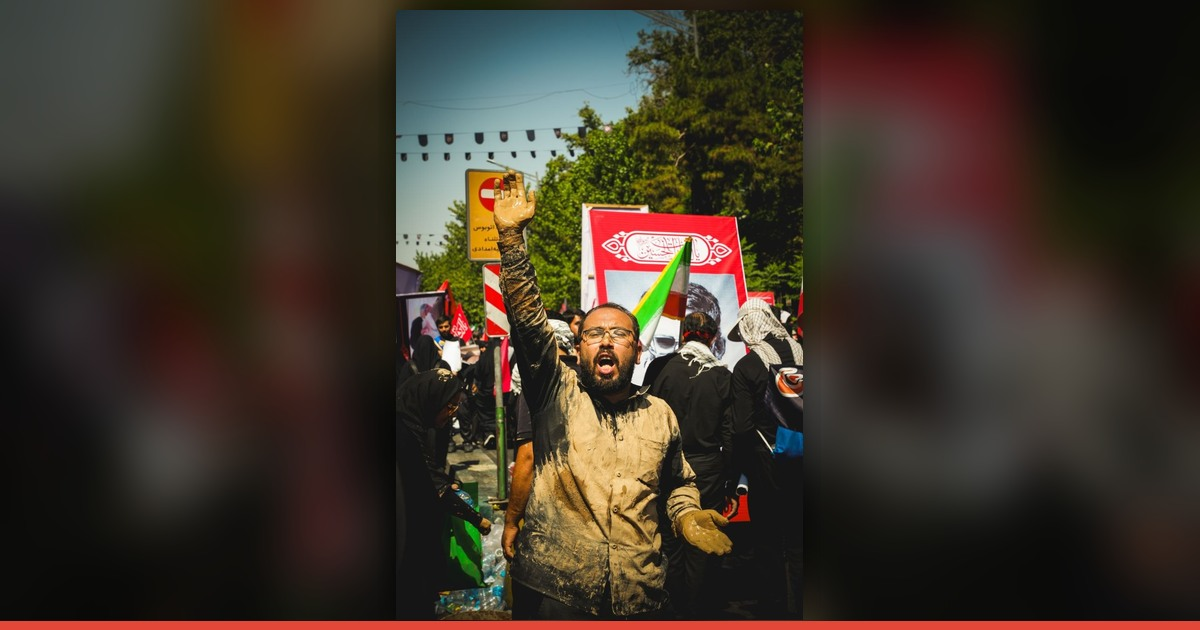
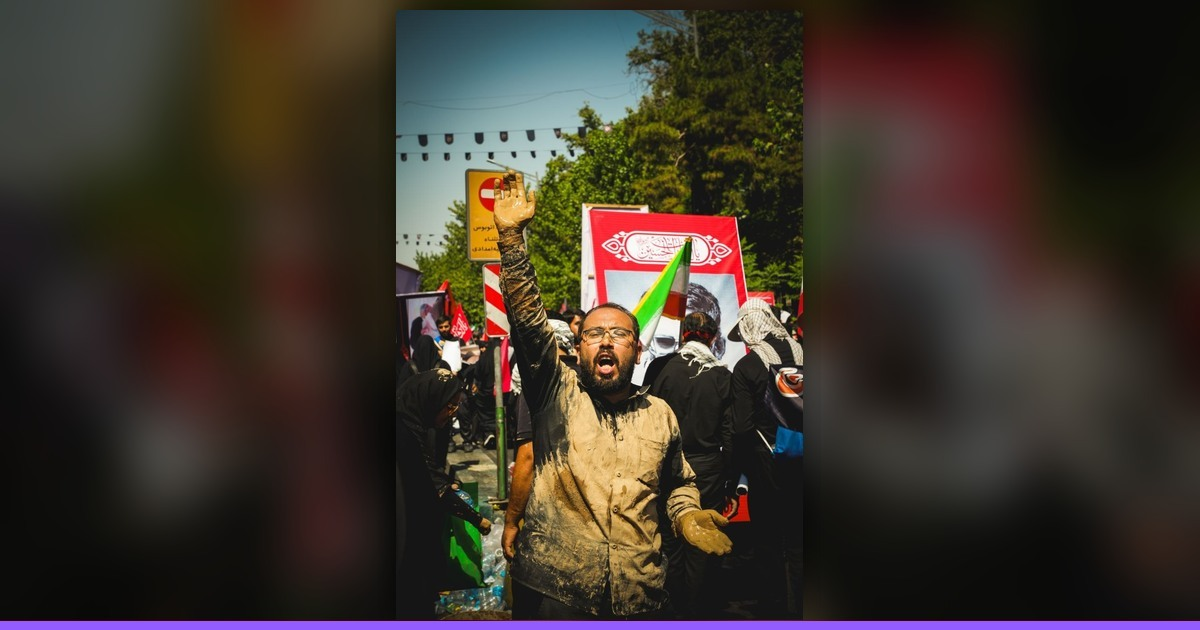
Redesign gallery with a premium neon corporate identity

Changed region(s): [[0.0, 0.9651, 1.0, 1.0]]

diff --git a/style.css b/style.css
@@ -1,57 +1,47 @@
-:root{--bg:#0a0a0b;--surface:#121214;--ink:#f0ece4;--muted:#a6a29b;--red:#e24737;--line:#29282a;--serif:Georgia,"Times New Roman",serif;--sans:Tahoma,Arial,sans-serif;--nav:rgba(10,10,11,.78)}
-*{box-sizing:border-box}html{scroll-behavior:smooth}body{margin:0;background:var(--bg);color:var(--ink);font-family:var(--sans);overflow-x:hidden}body.light{--bg:#eeeae2;--surface:#ded9cf;--ink:#111113;--muted:#605e59;--line:#c6c0b6;--nav:rgba(238,234,226,.82)}
-::selection{background:var(--red);color:#fff}.skip{position:fixed;top:-100px;right:1rem;background:#fff;color:#000;padding:.8rem;z-index:100}.skip:focus{top:1rem}.progress{position:fixed;inset:0 0 auto;width:0;height:2px;background:var(--red);z-index:1000}.nav{position:fixed;z-index:50;top:0;right:0;left:0;height:82px;display:flex;align-items:center;justify-content:space-between;padding:0 clamp(20px,5vw,76px);transition:.35s}.nav.scrolled{background:var(--nav);backdrop-filter:blur(15px);border-bottom:1px solid var(--line);height:66px}.brand{display:flex;align-items:center;gap:.65rem;color:#fff;text-decoration:none;font-weight:700;font-size:1.05rem}.light .nav.scrolled .brand,.light .nav.scrolled nav a,.light .nav.scrolled .soundless{color:#111}.brand-mark{display:grid;place-items:center;width:34px;height:34px;border:1px solid rgba(255,255,255,.45);border-radius:50%;font-family:var(--serif);font-size:1.2rem}.nav nav{display:flex;gap:1.8rem;align-items:center}.nav nav a{color:#fff;text-decoration:none;font-size:.82rem}.soundless{border:0;background:transparent;color:#fff;font-size:1.2rem;cursor:pointer}.hero{height:100svh;min-height:680px;position:relative;display:flex;align-items:flex-end;overflow:hidden}.hero-img{position:absolute;inset:0;width:100%;height:100%;object-fit:cover;filter:saturate(.85) contrast(1.08);animation:heroIn 1.8s ease both}.hero-shade{position:absolute;inset:0;background:linear-gradient(90deg,rgba(0,0,0,.12),rgba(0,0,0,.72)),linear-gradient(0deg,rgba(0,0,0,.8),transparent 55%)}.hero-copy{position:relative;z-index:2;margin:0 clamp(24px,9vw,150px) clamp(70px,10vh,120px);color:#fff}.eyebrow,.kicker{font-size:.72rem;letter-spacing:.18em;font-weight:700;color:var(--red)}.eyebrow{display:flex;align-items:center;gap:12px;color:#fff}.eyebrow span{width:46px;height:2px;background:var(--red)}.hero h1{font-size:clamp(5rem,14vw,12rem);line-height:.75;margin:.2em 0 .18em;letter-spacing:-.08em}.hero-line{font-family:var(--serif);font-size:clamp(1.5rem,3vw,3.2rem);line-height:1.35;margin:0}.hero-line em{color:#ef715f}.hero-actions{display:flex;align-items:center;gap:2rem;margin-top:2rem}.primary{background:var(--red);color:#fff;text-decoration:none;padding:1rem 1.3rem;border-radius:2px;font-weight:700;font-size:.86rem;display:flex;gap:2rem;transition:.2s}.primary:hover{transform:translateY(-3px);background:#f15443}.counter{font-size:.75rem;color:#d4d1cb}.counter b{font-family:var(--serif);font-size:1.4rem;color:#fff;margin-left:.4rem}.hero-index{position:absolute;z-index:2;left:5vw;top:48%;transform:rotate(-90deg);transform-origin:left;color:#fff;font-size:.65rem;letter-spacing:.25em}.scroll{position:absolute;z-index:2;bottom:28px;left:5vw;color:#fff;text-decoration:none;font-size:.65rem;letter-spacing:.1em;display:flex;align-items:center;gap:8px}.scroll i{display:block;width:1px;height:34px;background:#fff;animation:pulse 1.5s infinite}.statement{padding:clamp(100px,15vw,210px) clamp(24px,13vw,210px);display:grid;grid-template-columns:140px 1fr;gap:1rem}.statement blockquote{font-family:var(--serif);font-size:clamp(2rem,5vw,5.2rem);line-height:1.45;margin:0;max-width:1100px}.statement>p:last-child{grid-column:2;max-width:620px;color:var(--muted);line-height:2;margin-top:2rem}.gallery-section{padding:0 clamp(14px,4vw,60px) clamp(110px,14vw,190px)}.section-head{display:flex;justify-content:space-between;align-items:end;border-bottom:1px solid var(--line);padding-bottom:2rem;margin-bottom:1.4rem}.section-head h2,.about h2,.featured h2{font-family:var(--serif);font-size:clamp(4rem,9vw,9rem);line-height:.8;margin:.15em 0 0}.section-head>p{color:var(--muted);max-width:310px;font-size:.8rem;line-height:1.9}.filters{display:flex;gap:.5rem;overflow:auto;padding:.3rem 0 1.8rem;scrollbar-width:none}.filter{white-space:nowrap;background:transparent;color:var(--muted);border:1px solid var(--line);border-radius:99px;padding:.65rem 1rem;cursor:pointer}.filter.active,.filter:hover{background:var(--ink);color:var(--bg);border-color:var(--ink)}.gallery{columns:3 300px;column-gap:12px}.card{position:relative;margin:0 0 12px;break-inside:avoid;overflow:hidden;background:var(--surface);cursor:zoom-in;animation:cardIn .7s both}.card img{display:block;width:100%;height:auto;transition:transform .75s cubic-bezier(.2,.7,.2,1),filter .4s;filter:saturate(.82)}.card:hover img{transform:scale(1.035);filter:saturate(1)}.card-info{position:absolute;right:0;left:0;bottom:0;padding:4rem 1.2rem 1.1rem;color:#fff;background:linear-gradient(transparent,rgba(0,0,0,.82));transform:translateY(15px);opacity:0;transition:.35s}.card:hover .card-info,.card:focus-visible .card-info{transform:none;opacity:1}.card-info span{display:block;font-size:.95rem;font-weight:700}.card-info small{color:#ddd;font-size:.65rem}.load-wrap{text-align:center;margin-top:3rem}.load{background:transparent;border:1px solid var(--line);color:var(--ink);padding:1rem 1.3rem;cursor:pointer}.load:hover{border-color:var(--red);color:var(--red)}.featured{margin:0 clamp(14px,4vw,60px) clamp(120px,15vw,220px);min-height:85vh;display:grid;grid-template-columns:1.4fr .75fr;background:var(--surface)}.featured-photo{min-height:620px;overflow:hidden}.featured-photo img{width:100%;height:100%;object-fit:cover}.featured-copy{padding:clamp(35px,6vw,90px);position:relative;display:flex;flex-direction:column;justify-content:center}.big-no{position:absolute;left:12%;top:8%;font-family:var(--serif);font-size:8rem;color:transparent;-webkit-text-stroke:1px var(--line)}.featured h2{position:relative}.featured-copy>p:not(.kicker){color:var(--muted);line-height:2;margin-top:2.5rem}.featured-copy a{color:var(--ink);text-decoration:none;border-bottom:1px solid var(--red);align-self:start;padding-bottom:.4rem;margin-top:2rem}.about{border-top:1px solid var(--line);display:grid;grid-template-columns:1fr 1fr;padding:clamp(100px,15vw,190px) clamp(24px,9vw,150px);gap:8vw}.about h2 em{color:var(--red);font-weight:normal}.about-text{padding-top:4rem}.about-text p{font-size:clamp(1rem,1.5vw,1.3rem);line-height:2.1;color:var(--muted)}.signature{font-family:var(--serif);font-style:italic;font-size:2.3rem;margin-top:4rem}.signature small{display:block;font-family:var(--sans);font-style:normal;letter-spacing:.2em;font-size:.55rem;color:var(--muted)}footer{border-top:1px solid var(--line);min-height:260px;padding:60px clamp(24px,6vw,90px);display:flex;align-items:center;justify-content:space-between}.footer-brand{font-size:2.6rem;font-weight:900}.footer-brand span{display:block;font-size:.65rem;color:var(--muted);letter-spacing:.12em}.footer-meta{font-size:.72rem;color:var(--muted);line-height:1.8;text-align:center}.footer-meta strong{color:var(--ink)}.creator-channel{display:inline-block;margin-top:.15rem;color:var(--muted);text-decoration:none;border-bottom:1px solid var(--line);padding-bottom:.2rem;transition:.25s}.creator-channel:hover{color:var(--red);border-color:var(--red)}.to-top{display:grid;place-items:center;border:1px solid var(--line);width:50px;height:50px;color:var(--ink);text-decoration:none;border-radius:50%}.lightbox{position:fixed;inset:0;width:100%;height:100%;max-width:none;max-height:none;border:0;padding:0;background:rgba(4,4,5,.96);color:#fff}.lightbox::backdrop{background:#000}.lightbox[open]{display:grid;grid-template-columns:80px 1fr 80px;align-items:center}.lightbox figure{margin:0;display:flex;height:94vh;align-items:center;justify-content:center;flex-direction:column}.lightbox img{max-height:85vh;max-width:min(85vw,1400px);object-fit:contain}.lightbox figcaption{width:min(85vw,1100px);display:flex;justify-content:space-between;padding-top:1rem}.lightbox figcaption small{color:#999}.close,.arrow{position:relative;background:none;border:0;color:#fff;cursor:pointer}.close{position:absolute;z-index:3;top:20px;left:24px;font-size:2rem}.arrow{font-size:2rem;height:100%}.reveal{opacity:0;transform:translateY(35px);transition:.9s cubic-bezier(.2,.8,.2,1)}.reveal.visible{opacity:1;transform:none}.noscript{padding:1rem;background:var(--red);color:#fff;text-align:center}
-@keyframes heroIn{from{transform:scale(1.08);filter:saturate(.2) brightness(.4)}to{transform:scale(1);filter:saturate(.85) contrast(1.08)}}@keyframes pulse{50%{opacity:.2;transform:scaleY(.7)}}@keyframes cardIn{from{opacity:0;transform:translateY(20px)}}
-/* Responsive system: large Windows displays, laptops, tablets and phones */
-@media(min-width:1700px){
-  .nav{padding-inline:max(76px,calc((100vw - 1700px)/2))}
-  .hero-copy{margin-right:max(150px,calc((100vw - 1600px)/2));margin-left:max(150px,calc((100vw - 1600px)/2))}
-  .gallery-section,.featured{max-width:1800px;margin-inline:auto}
-  .gallery{columns:4 340px;column-gap:16px}.card{margin-bottom:16px}
-  .statement,.about{max-width:1800px;margin-inline:auto}
+:root{
+  --bg:#07050d;--bg-2:#0d0916;--panel:rgba(20,14,34,.72);--panel-solid:#110c1d;
+  --ink:#f7f4ff;--muted:#a9a0b8;--purple:#925cff;--violet:#6d28d9;--pink:#d946ef;
+  --cyan:#62e8ff;--line:rgba(179,137,255,.16);--glow:rgba(146,92,255,.32);
+  --serif:Georgia,"Times New Roman",serif;--sans:Tahoma,"Segoe UI",Arial,sans-serif;
 }
-@media(min-width:1200px) and (max-width:1699px){
-  .gallery{columns:3 320px}
-}
-@media(min-width:801px) and (max-width:1199px){
-  .nav{padding-inline:34px}
-  .hero-copy{margin-right:8vw;margin-bottom:9vh}.hero h1{font-size:clamp(6.5rem,15vw,10rem)}
-  .statement{grid-template-columns:105px 1fr;padding-inline:7vw}
-  .gallery-section{padding-inline:24px}.gallery{columns:2 320px;column-gap:12px}
-  .featured{margin-inline:24px;grid-template-columns:1.1fr .9fr;min-height:680px}
-  .featured-photo{min-height:680px}.featured-copy{padding:45px}.big-no{font-size:6rem}
-  .about{padding-inline:7vw;gap:5vw}.about h2{font-size:clamp(4rem,10vw,7rem)}
-  footer{padding-inline:34px}
-  .lightbox[open]{grid-template-columns:64px 1fr 64px}.lightbox img{max-width:calc(100vw - 150px)}
-}
-@media(max-width:800px){
-  .nav{height:66px;padding-right:max(20px,env(safe-area-inset-right));padding-left:max(20px,env(safe-area-inset-left))}.nav nav a{display:none}
-  .hero{min-height:620px}.hero-img{object-position:54% center}.hero-copy{margin-right:max(24px,env(safe-area-inset-right));margin-left:max(24px,env(safe-area-inset-left));margin-bottom:90px}.hero h1{font-size:clamp(4.7rem,25vw,8rem)}.hero-index{display:none}
-  .statement{grid-template-columns:1fr;padding-top:100px}.statement>p:last-child{grid-column:1}
-  .section-head{align-items:start}.section-head>p{display:none}.gallery{columns:2 150px;column-gap:7px}.card{margin-bottom:7px}.card-info{display:none}
-  .featured{grid-template-columns:1fr}.featured-photo{min-height:65vh}.featured-copy{min-height:520px}
-  .about{grid-template-columns:1fr}.about-text{padding-top:0}
-  footer{position:relative;flex-direction:column;align-items:start;gap:2rem;padding-bottom:max(60px,env(safe-area-inset-bottom))}.footer-meta{text-align:right}.to-top{position:absolute;left:24px}
-  .lightbox[open]{grid-template-columns:45px 1fr 45px}.lightbox figure{height:92dvh}.lightbox img{max-width:100%;max-height:78dvh}.lightbox figcaption{width:100%;padding:1rem;flex-direction:column;gap:.3rem}
-  .hero-actions{gap:1rem}.counter{display:none}
-}
-@media(max-width:520px){
-  .brand{font-size:.92rem}.brand-mark{width:30px;height:30px}.soundless{padding:.5rem}
-  .hero{min-height:560px}.hero-copy{margin-bottom:78px}.hero-line{font-size:1.35rem}.primary{padding:.9rem 1.05rem;gap:1.2rem}
-  .statement{padding:85px 20px}.statement blockquote{font-size:clamp(1.8rem,9vw,3rem)}
-  .gallery-section{padding-inline:8px}.section-head{padding-inline:12px}.filters{padding-inline:12px}
-  .gallery{columns:1}.card{margin-bottom:8px}.card:nth-child(n+7) img{max-height:78vh;object-fit:cover}
-  .featured{margin-inline:8px}.featured-photo{min-height:58vh}.featured-copy{min-height:440px;padding:36px 24px}.big-no{font-size:5.5rem}
-  .about{padding-inline:24px}.about-title h2{font-size:clamp(3.8rem,20vw,6rem)}
-  .footer-brand{font-size:2.15rem}.to-top{left:20px}
-  .lightbox[open]{grid-template-columns:38px 1fr 38px}.arrow{font-size:1.55rem}.close{top:12px;left:15px}.lightbox figcaption{font-size:.8rem}
-}
-@media(max-height:680px) and (orientation:landscape){
-  .hero{min-height:560px}.hero-copy{margin-bottom:48px}.hero h1{font-size:clamp(4.5rem,18vh,8rem)}.hero-line{font-size:1.45rem}.hero-actions{margin-top:1rem}.scroll{display:none}
-  .lightbox figure{height:100dvh}.lightbox img{max-height:84dvh}.lightbox figcaption{padding-top:.45rem}
-}
-@media(hover:none),(pointer:coarse){
-  .card-info{display:block;opacity:1;transform:none;padding:3.5rem .9rem .8rem}.card:hover img{transform:none}
-  .filter,.load,.primary,.to-top{min-height:44px}.arrow{min-width:44px}
-}
+*{box-sizing:border-box}html{scroll-behavior:smooth;background:var(--bg)}body{margin:0;background:var(--bg);color:var(--ink);font-family:var(--sans);overflow-x:hidden;min-width:280px}body::before{content:"";position:fixed;inset:0;z-index:-3;background:radial-gradient(circle at 82% 12%,rgba(109,40,217,.2),transparent 28%),radial-gradient(circle at 8% 72%,rgba(217,70,239,.1),transparent 25%),linear-gradient(180deg,#08050f 0%,#050409 100%)}body::after{content:"";position:fixed;inset:0;z-index:-2;pointer-events:none;opacity:.21;background-image:linear-gradient(rgba(150,100,255,.11) 1px,transparent 1px),linear-gradient(90deg,rgba(150,100,255,.11) 1px,transparent 1px);background-size:64px 64px;mask-image:linear-gradient(to bottom,black,transparent 82%)}::selection{background:var(--purple);color:white}img{max-width:100%}button,a{-webkit-tap-highlight-color:transparent}.skip{position:fixed;top:-100px;right:1rem;background:var(--purple);color:white;padding:.8rem 1rem;z-index:1000;border-radius:10px}.skip:focus{top:1rem}.progress{position:fixed;inset:0 0 auto;width:0;height:2px;background:linear-gradient(90deg,var(--cyan),var(--purple),var(--pink));box-shadow:0 0 18px var(--purple);z-index:1000}
+
+/* Navigation */
+.nav{position:fixed;z-index:50;top:18px;right:clamp(18px,4vw,64px);left:clamp(18px,4vw,64px);height:62px;display:flex;align-items:center;justify-content:space-between;padding:0 18px 0 10px;border:1px solid transparent;border-radius:18px;transition:.35s}.nav.scrolled{top:10px;background:rgba(10,7,17,.78);border-color:var(--line);box-shadow:0 16px 60px rgba(0,0,0,.36),inset 0 1px rgba(255,255,255,.04);backdrop-filter:blur(20px)}.brand{display:flex;align-items:center;gap:.75rem;color:#fff;text-decoration:none;font-weight:800;font-size:1rem}.brand-mark{display:grid;place-items:center;width:39px;height:39px;border:1px solid rgba(188,146,255,.48);background:linear-gradient(145deg,rgba(146,92,255,.25),rgba(217,70,239,.06));box-shadow:inset 0 0 18px rgba(146,92,255,.22),0 0 22px rgba(146,92,255,.12);border-radius:12px;font-family:var(--serif);font-size:1.25rem}.nav nav{display:flex;gap:1.7rem;align-items:center}.nav nav>a{color:#d8d0e3;text-decoration:none;font-size:.77rem;transition:.2s}.nav nav>a:hover{color:white;text-shadow:0 0 16px var(--purple)}.nav-status{direction:ltr;display:flex;align-items:center;gap:8px;border-right:1px solid var(--line);padding-right:1.4rem;color:#82788f;font:600 .58rem/1 "Segoe UI",Arial,sans-serif;letter-spacing:.14em}.nav-status i{width:6px;height:6px;background:#6cffb5;border-radius:50%;box-shadow:0 0 10px #6cffb5;animation:statusPulse 2s infinite}
+
+/* Hero */
+.hero{height:100svh;min-height:700px;position:relative;display:flex;align-items:flex-end;overflow:hidden;isolation:isolate;background:#08060e}.hero::before{content:"";position:absolute;z-index:2;width:min(52vw,820px);height:min(52vw,820px);right:-14vw;top:-17vw;border:1px solid rgba(166,110,255,.17);border-radius:50%;box-shadow:0 0 100px rgba(109,40,217,.12),inset 0 0 100px rgba(109,40,217,.08)}.hero::after{content:"";position:absolute;z-index:3;inset:0;pointer-events:none;background:linear-gradient(90deg,transparent 49.8%,rgba(182,139,255,.1) 50%,transparent 50.2%);opacity:.55}.hero-img{position:absolute;inset:0;width:100%;height:100%;object-fit:cover;object-position:center 48%;filter:saturate(.5) contrast(1.14) brightness(.63) hue-rotate(5deg);animation:heroIn 1.5s cubic-bezier(.2,.8,.2,1) both}.hero-shade{position:absolute;z-index:1;inset:0;background:linear-gradient(90deg,rgba(4,3,8,.18),rgba(6,4,11,.32) 40%,rgba(7,5,13,.88) 78%),linear-gradient(0deg,#07050d 0%,transparent 42%),linear-gradient(180deg,rgba(7,5,13,.55),transparent 25%)}.hero-copy{position:relative;z-index:5;margin:0 clamp(28px,8.5vw,150px) clamp(72px,10vh,120px);color:#fff;max-width:900px}.eyebrow,.kicker{font-size:.67rem;letter-spacing:.2em;font-weight:800;color:#b794ff;text-transform:uppercase}.eyebrow{display:flex;align-items:center;gap:12px;color:#cfc5dd}.eyebrow span{width:52px;height:1px;background:linear-gradient(90deg,var(--purple),var(--pink));box-shadow:0 0 12px var(--purple)}.hero h1{font-size:clamp(5.5rem,14vw,12rem);line-height:.74;margin:.22em 0 .19em;letter-spacing:-.085em;text-shadow:0 0 80px rgba(146,92,255,.26)}.hero-line{font-family:var(--serif);font-size:clamp(1.45rem,2.7vw,3rem);line-height:1.45;margin:0;color:#eae4f2}.hero-line em{font-style:normal;background:linear-gradient(90deg,#b89aff,#e879f9,#7ee9ff);-webkit-background-clip:text;background-clip:text;color:transparent}.hero-actions{display:flex;align-items:center;gap:2rem;margin-top:2.1rem}.primary{position:relative;overflow:hidden;background:linear-gradient(110deg,#6d28d9,#9b5cff 55%,#c026d3);box-shadow:0 12px 38px rgba(109,40,217,.35),inset 0 1px rgba(255,255,255,.25);border:1px solid rgba(255,255,255,.15);color:#fff;text-decoration:none;padding:1rem 1.25rem;border-radius:12px;font-weight:800;font-size:.8rem;display:flex;gap:2.3rem;transition:.25s}.primary::before{content:"";position:absolute;inset:0;transform:translateX(110%);background:linear-gradient(90deg,transparent,rgba(255,255,255,.28),transparent);transition:.55s}.primary:hover{transform:translateY(-3px);box-shadow:0 18px 52px rgba(146,92,255,.46)}.primary:hover::before{transform:translateX(-110%)}.counter{direction:rtl;font-size:.7rem;color:#b3aabc}.counter b{font-family:"Segoe UI",Arial,sans-serif;font-size:1.45rem;color:#fff;margin-left:.45rem;font-weight:300}.hero-index{position:absolute;z-index:5;left:4vw;top:48%;transform:rotate(-90deg);transform-origin:left;color:#9f93ad;font:600 .57rem/1 "Segoe UI",Arial,sans-serif;letter-spacing:.25em}.scroll{position:absolute;z-index:5;bottom:28px;left:4vw;color:#9f93ad;text-decoration:none;font-size:.6rem;letter-spacing:.1em;display:flex;align-items:center;gap:9px}.scroll i{display:block;width:1px;height:34px;background:linear-gradient(var(--purple),transparent);box-shadow:0 0 7px var(--purple);animation:pulse 1.5s infinite}
+
+/* Editorial statement */
+.statement{position:relative;padding:clamp(100px,14vw,200px) clamp(26px,12vw,210px);display:grid;grid-template-columns:140px 1fr;gap:1rem}.statement::before{content:"01 / VISION";position:absolute;left:5vw;top:16%;color:#4f465d;font:600 .56rem/1 "Segoe UI",Arial,sans-serif;letter-spacing:.22em;writing-mode:vertical-rl}.statement blockquote{font-family:var(--serif);font-size:clamp(2rem,4.6vw,5rem);line-height:1.5;margin:0;max-width:1100px;background:linear-gradient(120deg,#fff 10%,#b8acc7 70%,#745e91);-webkit-background-clip:text;background-clip:text;color:transparent}.statement>p:last-child{grid-column:2;max-width:630px;color:var(--muted);line-height:2.1;margin-top:2rem;border-right:1px solid var(--purple);padding-right:1.2rem}
+
+/* Gallery */
+.gallery-section{position:relative;padding:0 clamp(14px,4vw,64px) clamp(110px,14vw,190px)}.section-head{display:flex;justify-content:space-between;align-items:end;border-bottom:1px solid var(--line);padding-bottom:2rem;margin-bottom:1.4rem}.section-head h2,.about h2,.featured h2{font-family:var(--serif);font-size:clamp(4rem,8.5vw,8.5rem);line-height:.82;margin:.15em 0 0;letter-spacing:-.05em}.section-head h2{background:linear-gradient(180deg,#fff 15%,#82758f);-webkit-background-clip:text;background-clip:text;color:transparent}.section-head>p{color:var(--muted);max-width:320px;font-size:.76rem;line-height:2}.filters{display:flex;gap:.55rem;overflow:auto;padding:.4rem 0 1.8rem;scrollbar-width:none}.filter{white-space:nowrap;background:rgba(19,13,31,.6);color:#a89caf;border:1px solid var(--line);border-radius:10px;padding:.7rem 1.05rem;cursor:pointer;font-family:inherit;font-size:.72rem;transition:.24s}.filter.active,.filter:hover{background:rgba(126,67,233,.18);color:#fff;border-color:rgba(168,112,255,.64);box-shadow:inset 0 0 18px rgba(146,92,255,.1),0 0 20px rgba(146,92,255,.08)}.gallery{columns:3 300px;column-gap:13px}.card{position:relative;margin:0 0 13px;break-inside:avoid;overflow:hidden;background:var(--panel-solid);cursor:zoom-in;border:1px solid rgba(185,137,255,.08);border-radius:14px;animation:cardIn .7s both;transform:translateZ(0)}.card::after{content:"";position:absolute;inset:0;border-radius:inherit;box-shadow:inset 0 0 0 1px rgba(255,255,255,0);pointer-events:none;transition:.35s}.card img{display:block;width:100%;height:auto;transition:transform .75s cubic-bezier(.2,.7,.2,1),filter .45s;filter:saturate(.65) contrast(1.05)}.card:hover{border-color:rgba(164,102,255,.42);box-shadow:0 20px 50px rgba(0,0,0,.4),0 0 32px rgba(109,40,217,.12)}.card:hover::after{box-shadow:inset 0 0 0 1px rgba(194,151,255,.18)}.card:hover img{transform:scale(1.035);filter:saturate(.92) contrast(1.04)}.card-info{position:absolute;right:0;left:0;bottom:0;padding:5rem 1.2rem 1.15rem;color:#fff;background:linear-gradient(transparent,rgba(8,5,14,.93));transform:translateY(15px);opacity:0;transition:.35s}.card-info span{display:block;font-size:.9rem;font-weight:800}.card-info small{display:block;color:#ad9fba;font-size:.6rem;margin-top:.35rem;letter-spacing:.04em}.card:hover .card-info,.card:focus-visible .card-info{transform:none;opacity:1}.load-wrap{text-align:center;margin-top:3rem}.load{background:linear-gradient(145deg,rgba(31,20,49,.9),rgba(13,9,22,.9));border:1px solid var(--line);border-radius:12px;color:#ded5ea;padding:1rem 1.3rem;cursor:pointer;font-family:inherit;transition:.25s}.load:hover{border-color:var(--purple);color:#fff;box-shadow:0 0 30px rgba(146,92,255,.16)}
+
+/* Featured panel */
+.featured{position:relative;margin:0 clamp(14px,4vw,64px) clamp(120px,15vw,220px);min-height:82vh;display:grid;grid-template-columns:1.38fr .72fr;background:linear-gradient(145deg,rgba(22,14,37,.9),rgba(9,6,15,.92));border:1px solid var(--line);border-radius:24px;overflow:hidden;box-shadow:0 40px 120px rgba(0,0,0,.35)}.featured::after{content:"";position:absolute;left:-10%;bottom:-35%;width:55%;height:65%;background:var(--purple);filter:blur(140px);opacity:.13;pointer-events:none}.featured-photo{min-height:620px;overflow:hidden;position:relative}.featured-photo::after{content:"";position:absolute;inset:0;background:linear-gradient(90deg,transparent 60%,rgba(12,8,20,.65)),linear-gradient(0deg,rgba(8,5,13,.45),transparent 45%)}.featured-photo img{width:100%;height:100%;object-fit:cover;filter:saturate(.64) contrast(1.1)}.featured-copy{padding:clamp(35px,6vw,90px);position:relative;z-index:2;display:flex;flex-direction:column;justify-content:center}.big-no{position:absolute;left:10%;top:7%;font-family:"Segoe UI",Arial,sans-serif;font-size:7rem;font-weight:200;color:rgba(145,96,219,.08);-webkit-text-stroke:1px rgba(163,113,239,.14)}.featured h2{position:relative;font-size:clamp(4rem,7vw,7.5rem);text-shadow:0 0 55px rgba(146,92,255,.17)}.featured-copy>p:not(.kicker){color:var(--muted);line-height:2;margin-top:2.5rem}.featured-copy>a{color:#eee7f6;text-decoration:none;border-bottom:1px solid var(--purple);align-self:start;padding-bottom:.45rem;margin-top:2rem;font-size:.78rem;transition:.25s}.featured-copy>a:hover{color:#c8a8ff;text-shadow:0 0 15px var(--purple)}
+
+/* About */
+.about{position:relative;border-top:1px solid var(--line);display:grid;grid-template-columns:1fr 1fr;padding:clamp(100px,14vw,185px) clamp(24px,9vw,150px);gap:8vw}.about::before{content:"";position:absolute;right:7%;top:13%;width:90px;height:90px;border:1px solid rgba(156,99,255,.2);border-radius:22px;transform:rotate(45deg);box-shadow:inset 0 0 35px rgba(146,92,255,.08),0 0 40px rgba(146,92,255,.05)}.about h2 em{font-style:normal;color:transparent;-webkit-text-stroke:1px #9c6cef;text-shadow:0 0 32px rgba(146,92,255,.22)}.about-text{padding-top:4rem}.about-text p{font-size:clamp(1rem,1.45vw,1.25rem);line-height:2.15;color:var(--muted)}.signature{font-family:var(--serif);font-style:italic;font-size:2.3rem;margin-top:4rem;color:#e9def5}.signature small{display:block;font-family:"Segoe UI",Arial,sans-serif;font-style:normal;letter-spacing:.22em;font-size:.5rem;color:#756a81;margin-top:.5rem}
+
+/* Footer */
+footer{position:relative;border-top:1px solid var(--line);min-height:270px;padding:60px clamp(24px,6vw,90px);display:flex;align-items:center;justify-content:space-between;background:linear-gradient(180deg,rgba(15,9,25,.1),rgba(18,11,30,.8));overflow:hidden}footer::before{content:"";position:absolute;width:420px;height:160px;left:35%;bottom:-130px;background:var(--purple);filter:blur(100px);opacity:.16}.footer-brand{font-size:2.55rem;font-weight:900;letter-spacing:-.05em}.footer-brand span{display:block;font:600 .56rem/1.8 "Segoe UI",Arial,sans-serif;color:#766c82;letter-spacing:.17em}.footer-meta{position:relative;font-size:.68rem;color:#8f849a;line-height:1.85;text-align:center}.footer-meta strong{color:#e9dfff}.creator-channel{display:inline-block;margin-top:.15rem;color:#a795ba;text-decoration:none;border-bottom:1px solid rgba(159,108,238,.35);padding-bottom:.2rem;transition:.25s}.creator-channel:hover{color:#c49eff;border-color:#a76bff;text-shadow:0 0 14px rgba(146,92,255,.6)}.to-top{position:relative;display:grid;place-items:center;border:1px solid var(--line);width:52px;height:52px;color:#c7b9d4;text-decoration:none;border-radius:14px;background:rgba(28,18,45,.6);transition:.25s}.to-top:hover{border-color:var(--purple);color:white;box-shadow:0 0 26px rgba(146,92,255,.2);transform:translateY(-3px)}
+
+/* Lightbox */
+.lightbox{position:fixed;inset:0;width:100%;height:100%;max-width:none;max-height:none;border:0;padding:0;background:rgba(5,3,9,.97);color:#fff}.lightbox::backdrop{background:#030205}.lightbox[open]{display:grid;grid-template-columns:80px 1fr 80px;align-items:center}.lightbox figure{margin:0;display:flex;height:94vh;align-items:center;justify-content:center;flex-direction:column}.lightbox img{max-height:84vh;max-width:min(85vw,1400px);object-fit:contain;border-radius:10px;box-shadow:0 30px 100px #000,0 0 0 1px rgba(190,145,255,.13),0 0 70px rgba(109,40,217,.1)}.lightbox figcaption{width:min(85vw,1100px);display:flex;justify-content:space-between;padding-top:1rem;color:#eee7f5}.lightbox figcaption small{color:#85798e}.close,.arrow{position:relative;background:none;border:0;color:#c8b9d7;cursor:pointer;transition:.22s}.close:hover,.arrow:hover{color:white;text-shadow:0 0 18px var(--purple)}.close{position:absolute;z-index:3;top:20px;left:24px;font-size:2rem}.arrow{font-size:2rem;height:100%}.reveal{opacity:0;transform:translateY(35px);transition:.9s cubic-bezier(.2,.8,.2,1)}.reveal.visible{opacity:1;transform:none}.noscript{padding:1rem;background:var(--purple);color:#fff;text-align:center}
+
+@keyframes heroIn{from{transform:scale(1.07);filter:saturate(.1) brightness(.28)}to{transform:scale(1);filter:saturate(.5) contrast(1.14) brightness(.63) hue-rotate(5deg)}}@keyframes pulse{50%{opacity:.25;transform:scaleY(.7)}}@keyframes cardIn{from{opacity:0;transform:translateY(20px)}}@keyframes statusPulse{50%{opacity:.35;box-shadow:0 0 3px #6cffb5}}
+
+/* Large Windows / 4K */
+@media(min-width:1700px){.nav{right:max(64px,calc((100vw - 1760px)/2));left:max(64px,calc((100vw - 1760px)/2))}.hero-copy{margin-right:max(150px,calc((100vw - 1600px)/2))}.gallery-section,.featured{max-width:1800px;margin-inline:auto}.gallery{columns:4 340px;column-gap:16px}.card{margin-bottom:16px}.statement,.about{max-width:1800px;margin-inline:auto}}
+@media(min-width:1200px) and (max-width:1699px){.gallery{columns:3 320px}}
+
+/* Tablets and compact laptops */
+@media(min-width:801px) and (max-width:1199px){.nav{right:24px;left:24px}.hero-copy{margin-right:7vw;margin-bottom:9vh}.hero h1{font-size:clamp(6.5rem,15vw,10rem)}.statement{grid-template-columns:105px 1fr;padding-inline:7vw}.gallery-section{padding-inline:24px}.gallery{columns:2 320px}.featured{margin-inline:24px;grid-template-columns:1.08fr .92fr;min-height:680px}.featured-photo{min-height:680px}.featured-copy{padding:42px}.big-no{font-size:5.5rem}.about{padding-inline:7vw;gap:5vw}.about h2{font-size:clamp(4rem,10vw,7rem)}footer{padding-inline:34px}.lightbox[open]{grid-template-columns:64px 1fr 64px}.lightbox img{max-width:calc(100vw - 150px)}}
+
+/* Phones and small tablets */
+@media(max-width:800px){body::after{background-size:42px 42px}.nav{top:10px;right:max(12px,env(safe-area-inset-right));left:max(12px,env(safe-area-inset-left));height:58px;padding:0 12px}.nav.scrolled{top:6px}.nav nav>a{display:none}.nav-status{border:0;padding:0;font-size:.5rem}.hero{min-height:650px}.hero::before{width:90vw;height:90vw;right:-35vw;top:-20vw}.hero::after{display:none}.hero-img{object-position:48% center}.hero-shade{background:linear-gradient(0deg,#07050d 0%,rgba(7,5,13,.18) 57%,rgba(7,5,13,.6)),linear-gradient(90deg,rgba(5,3,9,.1),rgba(7,5,13,.68))}.hero-copy{margin-right:max(24px,env(safe-area-inset-right));margin-left:max(24px,env(safe-area-inset-left));margin-bottom:90px}.hero h1{font-size:clamp(4.7rem,24vw,8rem)}.hero-index{display:none}.statement{grid-template-columns:1fr;padding:100px 24px}.statement::before{display:none}.statement>p:last-child{grid-column:1}.section-head{align-items:start}.section-head>p{display:none}.gallery{columns:2 150px;column-gap:8px}.card{margin-bottom:8px;border-radius:10px}.card-info{display:none}.featured{grid-template-columns:1fr;border-radius:18px}.featured-photo{min-height:65vh}.featured-photo::after{background:linear-gradient(0deg,rgba(10,6,17,.7),transparent 40%)}.featured-copy{min-height:500px}.about{grid-template-columns:1fr}.about-text{padding-top:0}footer{position:relative;flex-direction:column;align-items:start;gap:2rem;padding-bottom:max(60px,env(safe-area-inset-bottom))}.footer-meta{text-align:right}.to-top{position:absolute;left:24px}.lightbox[open]{grid-template-columns:45px 1fr 45px}.lightbox figure{height:92dvh}.lightbox img{max-width:100%;max-height:78dvh;border-radius:6px}.lightbox figcaption{width:100%;padding:1rem;flex-direction:column;gap:.3rem}.hero-actions{gap:1rem}.counter{display:none}}
+@media(max-width:520px){.brand{font-size:.88rem}.brand-mark{width:34px;height:34px;border-radius:10px}.nav-status{font-size:.43rem;letter-spacing:.1em}.hero{min-height:590px}.hero-copy{margin-bottom:76px}.hero-line{font-size:1.32rem}.primary{padding:.92rem 1.05rem;gap:1.2rem}.statement{padding:85px 20px}.statement blockquote{font-size:clamp(1.8rem,9vw,3rem)}.gallery-section{padding-inline:8px}.section-head{padding-inline:12px}.filters{padding-inline:12px}.gallery{columns:1}.card{margin-bottom:9px;border-radius:12px}.card-info{display:block;opacity:1;transform:none;padding:4.5rem 1rem .9rem}.featured{margin-inline:8px}.featured-photo{min-height:58vh}.featured-copy{min-height:430px;padding:36px 24px}.big-no{font-size:5rem}.about{padding-inline:24px}.about-title h2{font-size:clamp(3.8rem,20vw,6rem)}.footer-brand{font-size:2.15rem}.to-top{left:20px}.lightbox[open]{grid-template-columns:38px 1fr 38px}.arrow{font-size:1.55rem}.close{top:12px;left:15px}.lightbox figcaption{font-size:.8rem}}
+@media(max-height:680px) and (orientation:landscape){.hero{min-height:560px}.hero-copy{margin-bottom:42px}.hero h1{font-size:clamp(4.5rem,18vh,8rem)}.hero-line{font-size:1.35rem}.hero-actions{margin-top:1rem}.scroll{display:none}.lightbox figure{height:100dvh}.lightbox img{max-height:84dvh}.lightbox figcaption{padding-top:.45rem}}
+@media(hover:none),(pointer:coarse){.card-info{display:block;opacity:1;transform:none;padding:4rem .9rem .8rem}.card:hover img{transform:none}.filter,.load,.primary,.to-top{min-height:44px}.arrow{min-width:44px}}
 @media(prefers-reduced-motion:reduce){*{scroll-behavior:auto!important;animation:none!important;transition:none!important}.reveal{opacity:1;transform:none}}

diff --git a/index.html b/index.html
@@ -3,7 +3,7 @@
 <head>
   <meta charset="utf-8">
   <meta name="viewport" content="width=device-width,initial-scale=1,viewport-fit=cover">
-  <meta name="theme-color" content="#0a0a0b">
+  <meta name="theme-color" content="#07050d">
   <meta name="description" content="گالری رسمی علیاکبر؛ روایتهای تصویری از مردم، آیین و خیابان.">
   <link rel="canonical" href="https://pillow1243.github.io/aliakbar-gallery/">
   <meta property="og:locale" content="fa_IR">
@@ -12,8 +12,8 @@
   <meta property="og:title" content="علیاکبر — گالری رسمی عکس">
   <meta property="og:description" content="روایتهایی که در قاب میمانند؛ مجموعهای از عکاسی مستند، خیابانی و آیینی.">
   <meta property="og:url" content="https://pillow1243.github.io/aliakbar-gallery/">
-  <meta property="og:image" content="https://pillow1243.github.io/aliakbar-gallery/assets/og/aliakbar-share.jpg?v=2">
-  <meta property="og:image:secure_url" content="https://pillow1243.github.io/aliakbar-gallery/assets/og/aliakbar-share.jpg?v=2">
+  <meta property="og:image" content="https://pillow1243.github.io/aliakbar-gallery/assets/og/aliakbar-share.jpg?v=3">
+  <meta property="og:image:secure_url" content="https://pillow1243.github.io/aliakbar-gallery/assets/og/aliakbar-share.jpg?v=3">
   <meta property="og:image:type" content="image/jpeg">
   <meta property="og:image:width" content="1200">
   <meta property="og:image:height" content="630">
@@ -21,7 +21,7 @@
   <meta name="twitter:card" content="summary_large_image">
   <meta name="twitter:title" content="علیاکبر — گالری رسمی عکس">
   <meta name="twitter:description" content="روایتهایی که در قاب میمانند.">
-  <meta name="twitter:image" content="https://pillow1243.github.io/aliakbar-gallery/assets/og/aliakbar-share.jpg?v=2">
+  <meta name="twitter:image" content="https://pillow1243.github.io/aliakbar-gallery/assets/og/aliakbar-share.jpg?v=3">
   <link rel="icon" href="assets/icons/mark.svg">
   <link rel="preload" as="image" href="assets/photos/IMG_20260818_164111_282.jpg">
   <link rel="stylesheet" href="style.css">
@@ -35,8 +35,8 @@
       <span class="brand-mark">ع</span><span>علیاکبر</span>
     </a>
     <nav aria-label="ناوبری اصلی">
-      <a href="#gallery">آثار</a><a href="#about">درباره</a>
-      <button class="soundless" id="themeBtn" aria-label="تغییر حالت رنگ">◐</button>
+      <a href="#gallery">آرشیو</a><a href="#about">درباره</a>
+      <span class="nav-status"><i></i> PORTFOLIO / 2026</span>
     </nav>
   </header>
 

diff --git a/app.js b/app.js
@@ -24,4 +24,4 @@ grid.addEventListener('click',e=>{const c=e.target.closest('.card');if(c)openAt(
 loadBtn.onclick=()=>{limit+=12;render()};document.querySelector('#closeLightbox').onclick=()=>box.close();document.querySelector('#prevPhoto').onclick=()=>move(-1);document.querySelector('#nextPhoto').onclick=()=>move(1);box.addEventListener('click',e=>{if(e.target===box)box.close()});box.addEventListener('close',()=>history.replaceState(null,'','#gallery'));document.addEventListener('keydown',e=>{if(!box.open)return;if(e.key==='ArrowLeft')move(1);if(e.key==='ArrowRight')move(-1)});
 const obs=new IntersectionObserver(es=>es.forEach(e=>{if(e.isIntersecting)e.target.classList.add('visible')}),{threshold:.12});document.querySelectorAll('.reveal').forEach(x=>obs.observe(x));
 addEventListener('scroll',()=>{const y=scrollY,d=document.documentElement.scrollHeight-innerHeight;document.querySelector('.progress').style.width=`${d?y/d*100:0}%`;document.querySelector('#nav').classList.toggle('scrolled',y>40)},{passive:true});
-document.querySelector('#themeBtn').onclick=()=>document.body.classList.toggle('light');document.querySelector('#year').textContent=fa(new Date().getFullYear());
+document.querySelector('#year').textContent=fa(new Date().getFullYear());
